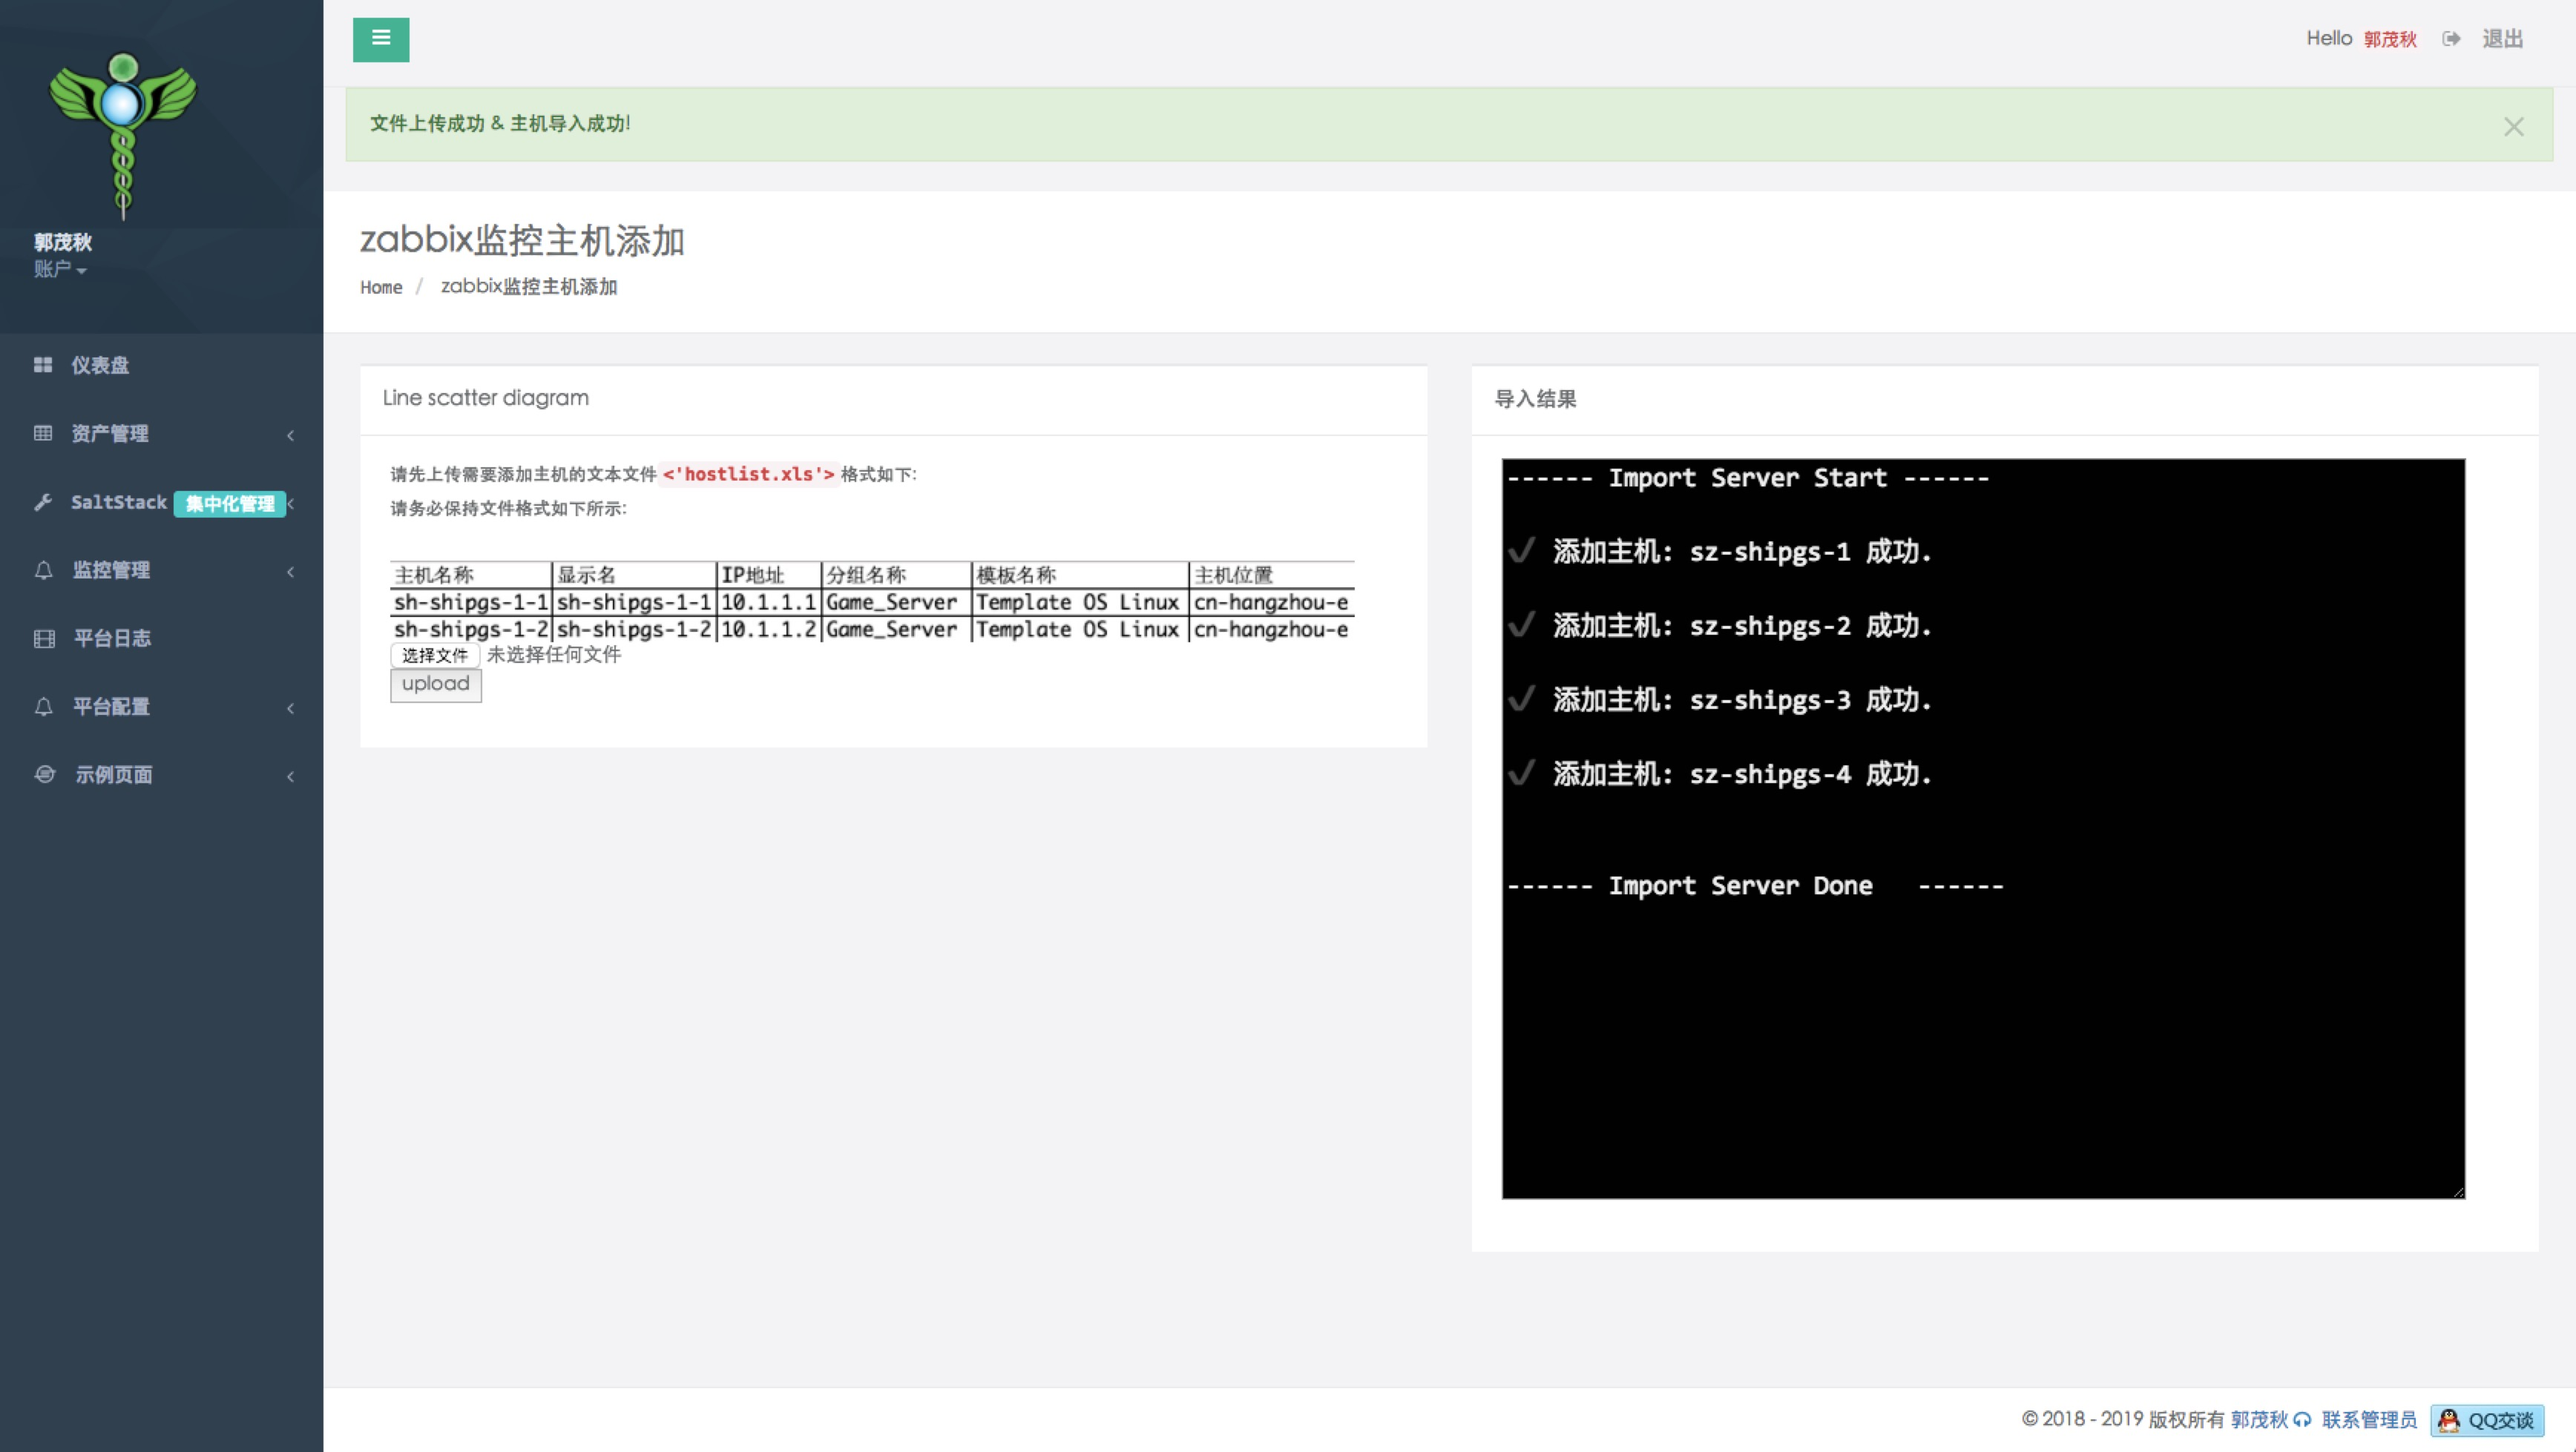
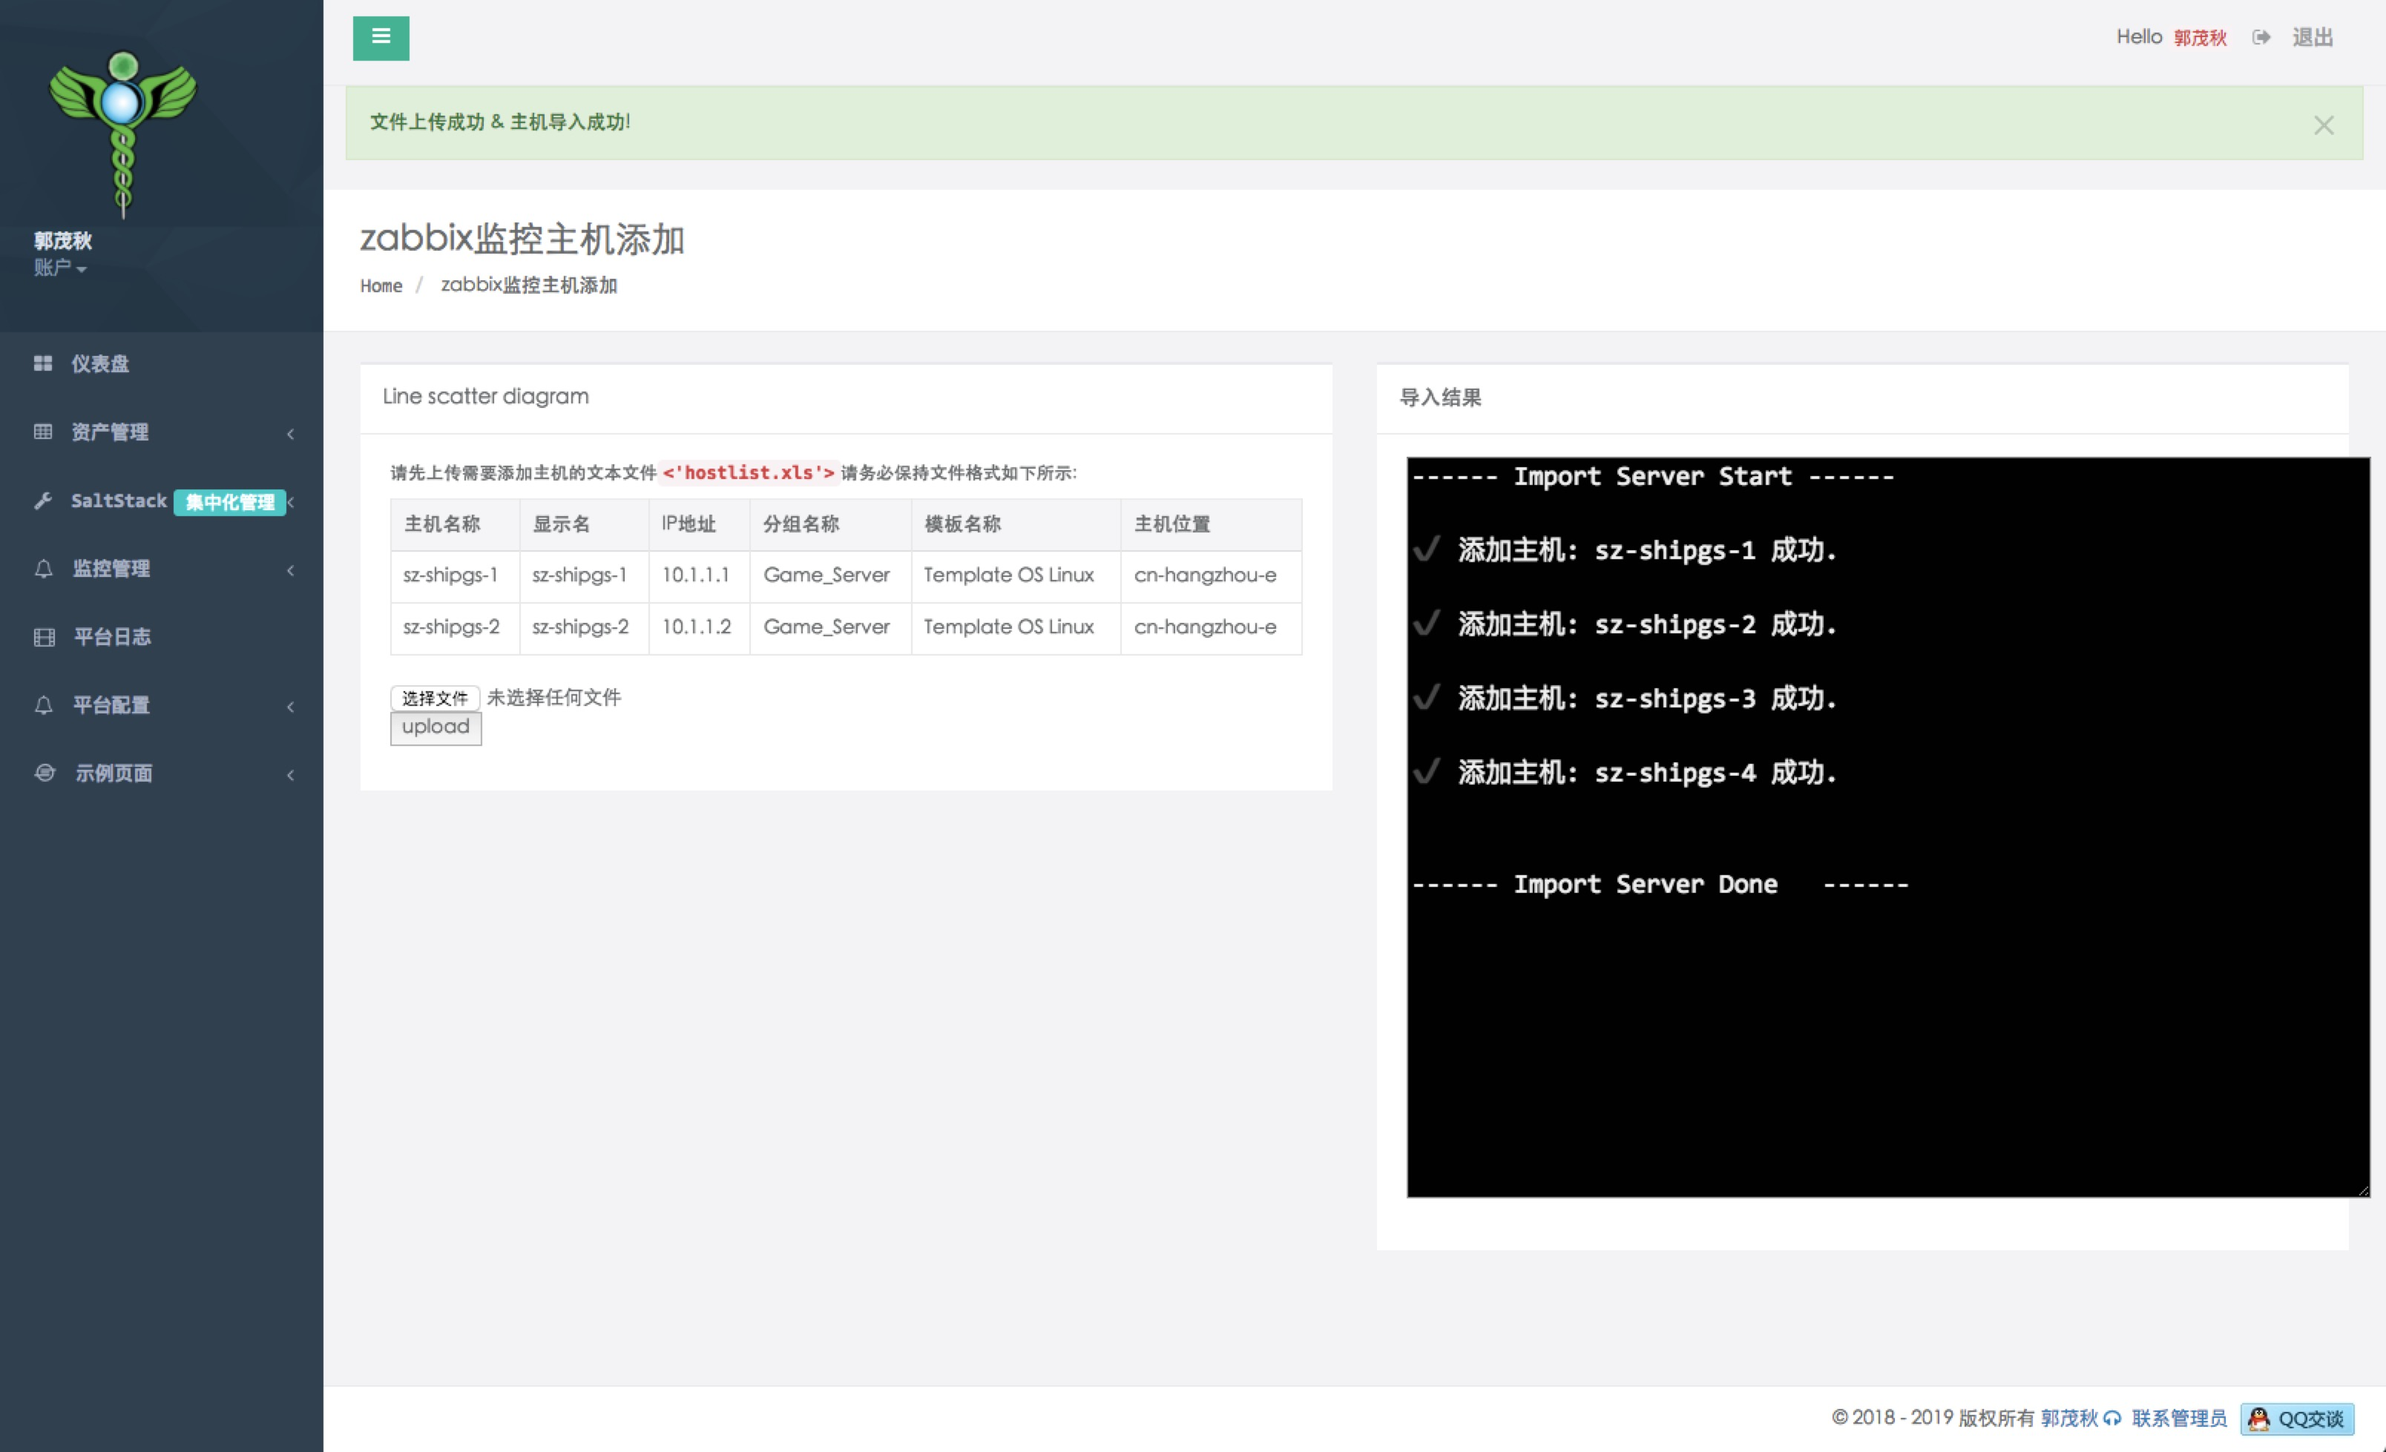
frist commit

diff --git a/app/templates/zabbixadd.html b/app/templates/zabbixadd.html
@@ -43,16 +43,16 @@
                               </thead>
                               <tbody>
                                 <tr>
-                                  <td>sh-shipgs-1-1</td>
-                                  <td>sh-shipgs-1-1</td>
+                                  <td>sz-shipgs-1</td>
+                                  <td>sz-shipgs-1</td>
                                   <td>10.1.1.1</td>
                                   <td>Game_Server</td>
                                   <td>Template OS Linux</td>
                                   <td>cn-hangzhou-e</td>
                                 </tr>
                                 <tr>
-                                  <td>sh-shipgs-1-2</td>
-                                  <td>sh-shipgs-1-2</td>
+                                  <td>sz-shipgs-2</td>
+                                  <td>sz-shipgs-2</td>
                                   <td>10.1.1.2</td>
                                   <td>Game_Server</td>
                                   <td>Template OS Linux</td>
@@ -65,7 +65,7 @@
 
                                   <p>
                                       <input  type=file name=file>
-                                      <input type=submit value=upload>
+                                      <input type=submit value=upload >
                                   </p>
                             </form>
 

diff --git a/app/zabbix/views.py b/app/zabbix/views.py
@@ -15,26 +15,18 @@ from zabbixapi import ZabbixAction
 def zabbixadd():
     if request.method == 'POST':
         result = request.files['file']
-        print result.
         #获取当前目录的位置然后通过path.join来连接上传目录
         basepath=path.abspath(path.dirname(__file__))
         upload_path = path.join(basepath,'upload')
-        print upload_path
         #print '删除旧文件'
         if result.filename:
             result.save(path.join(upload_path,secure_filename(result.filename)))
             flash(u'文件上传成功 & 主机导入成功!','success')
-            try:
-              z_add = ZabbixAction()
-              z_add.create_hosts(path.join(upload_path,secure_filename(result.filename)))
-
-              res = (commands.getoutput('cat /tmp/cache_add_zabbix.txt')).decode('utf-8').split('!')
-              return render_template('zabbixadd.html',result=res)
-            except Exception, e:
-              print e
-              flash('xzssssss','danger')
-              return render_template('zabbixadd.html')
-
+            z_add = ZabbixAction()
+            z_add.login_test()
+            z_add.create_hosts(path.join(upload_path,secure_filename(result.filename)))
+            res = (commands.getoutput('cat /tmp/cache_add_zabbix.txt')).decode('utf-8').split('!')
+            return render_template('zabbixadd.html',result=res)
         else:
             flash(u'务必选择一个文件进行操作!', 'danger')
             return render_template('zabbixadd.html')
